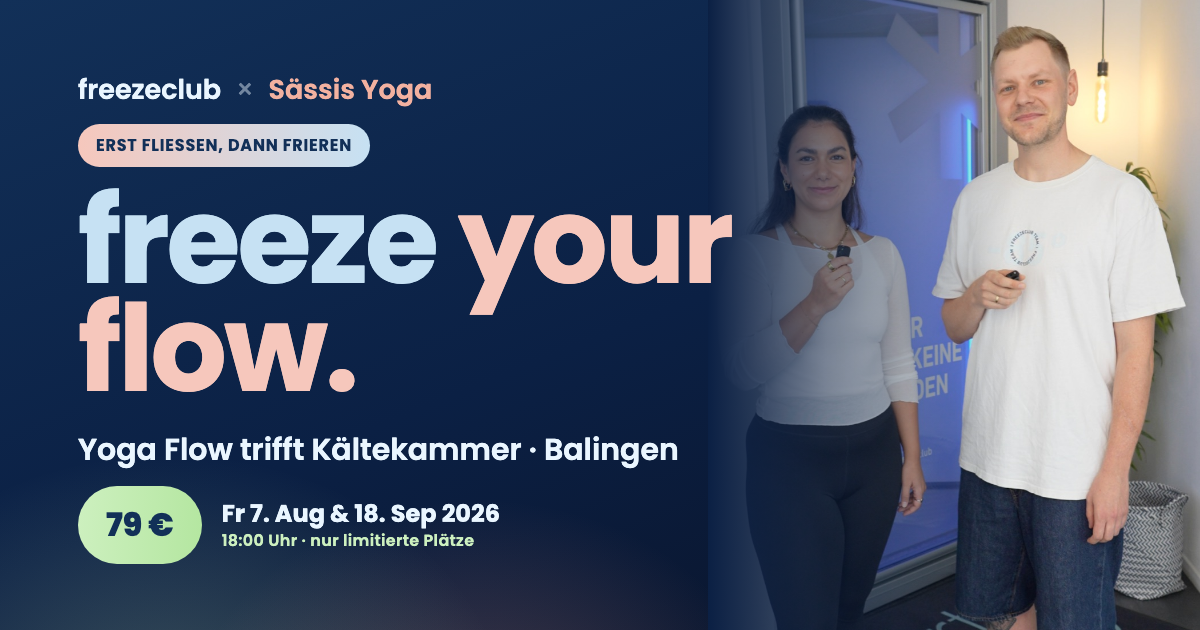
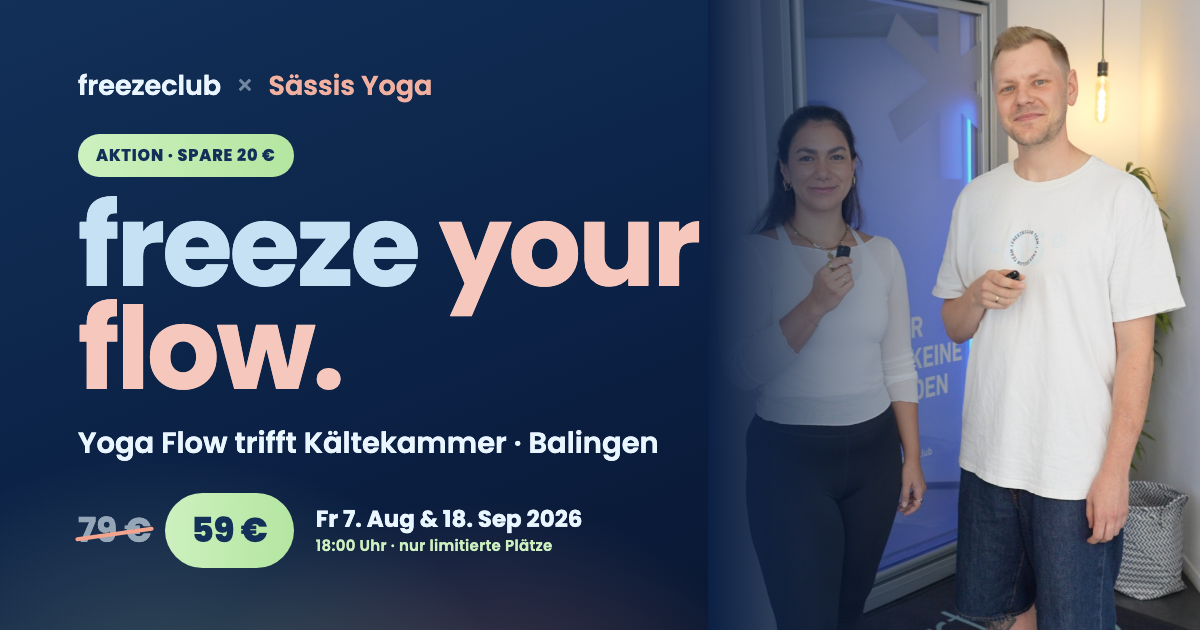
Preis auf Aktionspreis 59 EUR + Share-Bild; Ad-Grafiken aus Repo
Alle Preise auf der Seite 79 -> 59 EUR, Share-Bild neu mit Deal.
story-ads/ nicht mehr im Repo (Marketing-Assets, liegen lokal).

Changed region(s): [[0.0617, 0.1206, 0.6167, 0.6333], [0.0617, 0.6635, 0.5858, 0.9048]]

diff --git a/index.html b/index.html
@@ -468,7 +468,7 @@
 
     <a class="cta rise d3" href="https://shop.freezeclub.de/products/freezeclub-x-sassis-yoga-1" target="_blank" rel="noopener">
       <span class="ic"><svg viewBox="0 0 24 24"><path d="M6 2 3 6v14a2 2 0 0 0 2 2h14a2 2 0 0 0 2-2V6l-3-4Z"/><path d="M3 6h18M16 10a4 4 0 0 1-8 0"/></svg></span>
-      <span class="txt"><b>Platz sichern</b><span>Begrenzte Teilnehmerzahl · 79 € pro Person</span></span>
+      <span class="txt"><b>Platz sichern</b><span>Begrenzte Teilnehmerzahl · 59 € pro Person</span></span>
       <span class="arw"><svg viewBox="0 0 24 24"><path d="M5 12h14M13 6l6 6-6 6"/></svg></span>
     </a>
   </div>
@@ -814,7 +814,7 @@
   /* ---- Tab-Titel: zurückholen, wenn man weg ist ---- */
   (function(){
     var orig = document.title;
-    var msgs = ['❄ Hast du mich vergessen?', '👉 Jetzt Platz sichern · 79 €'];
+    var msgs = ['❄ Hast du mich vergessen?', '👉 Jetzt Platz sichern · 59 €'];
     var iv = null, i = 0;
     function start(){
       if(iv) return;
